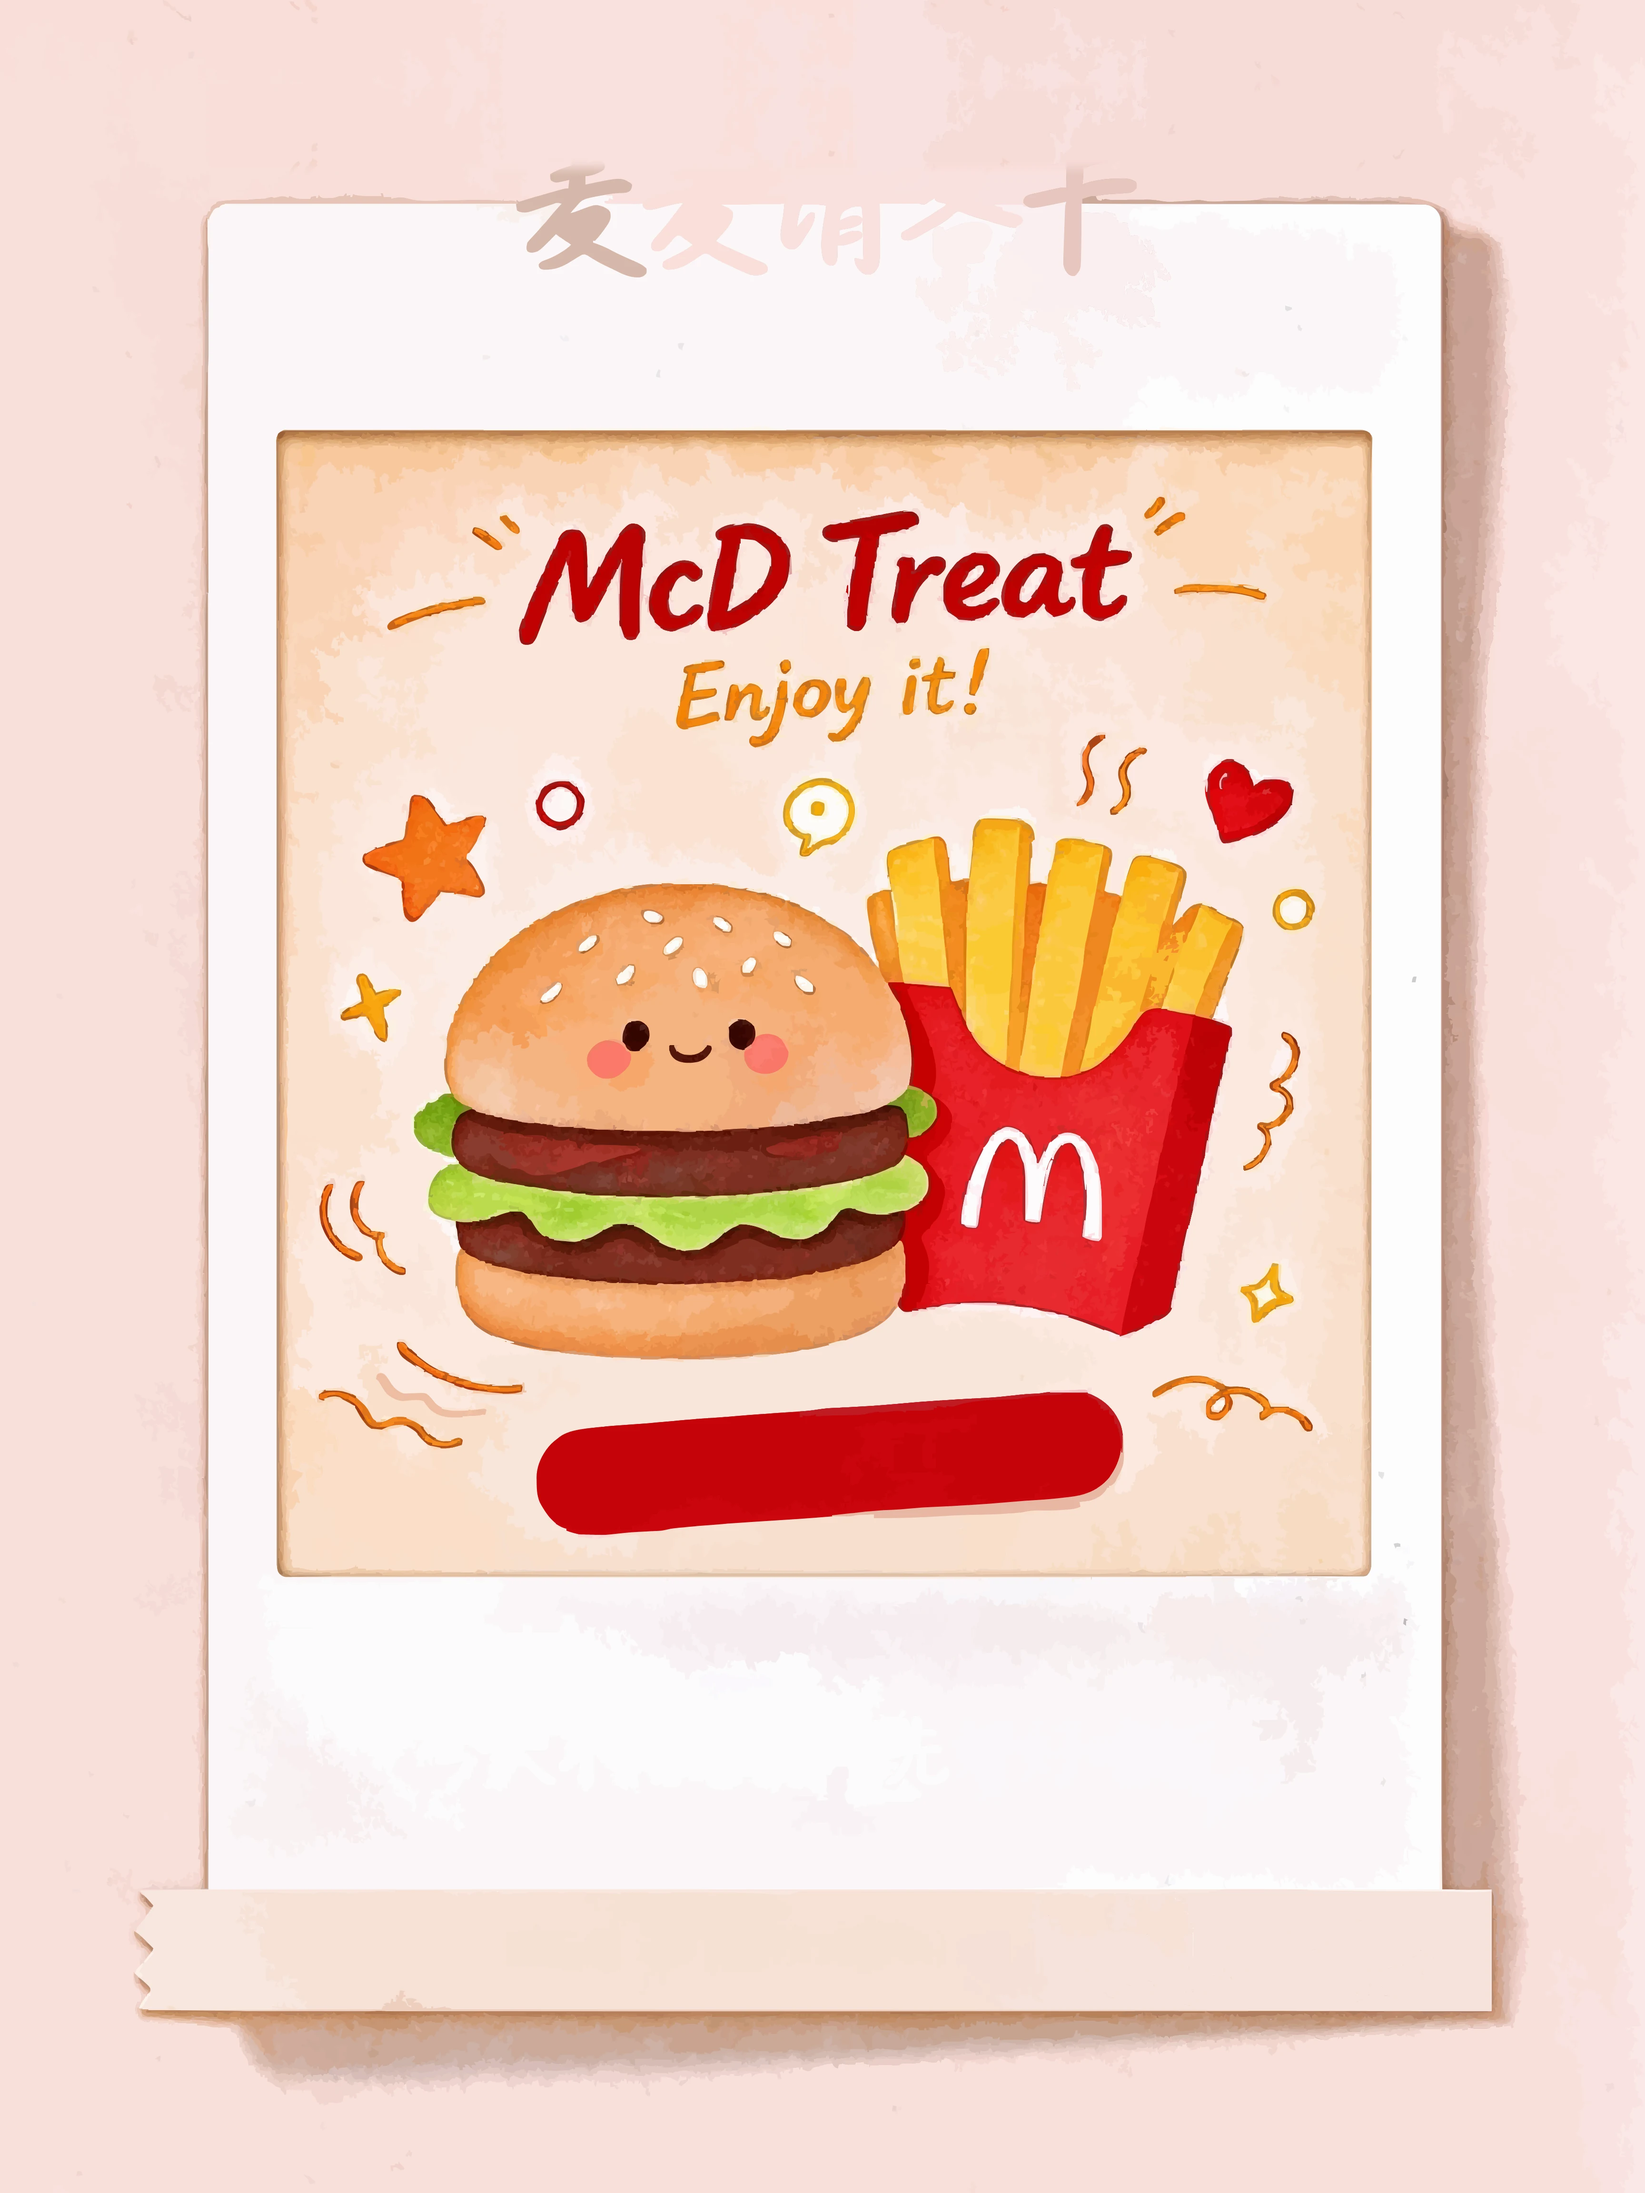
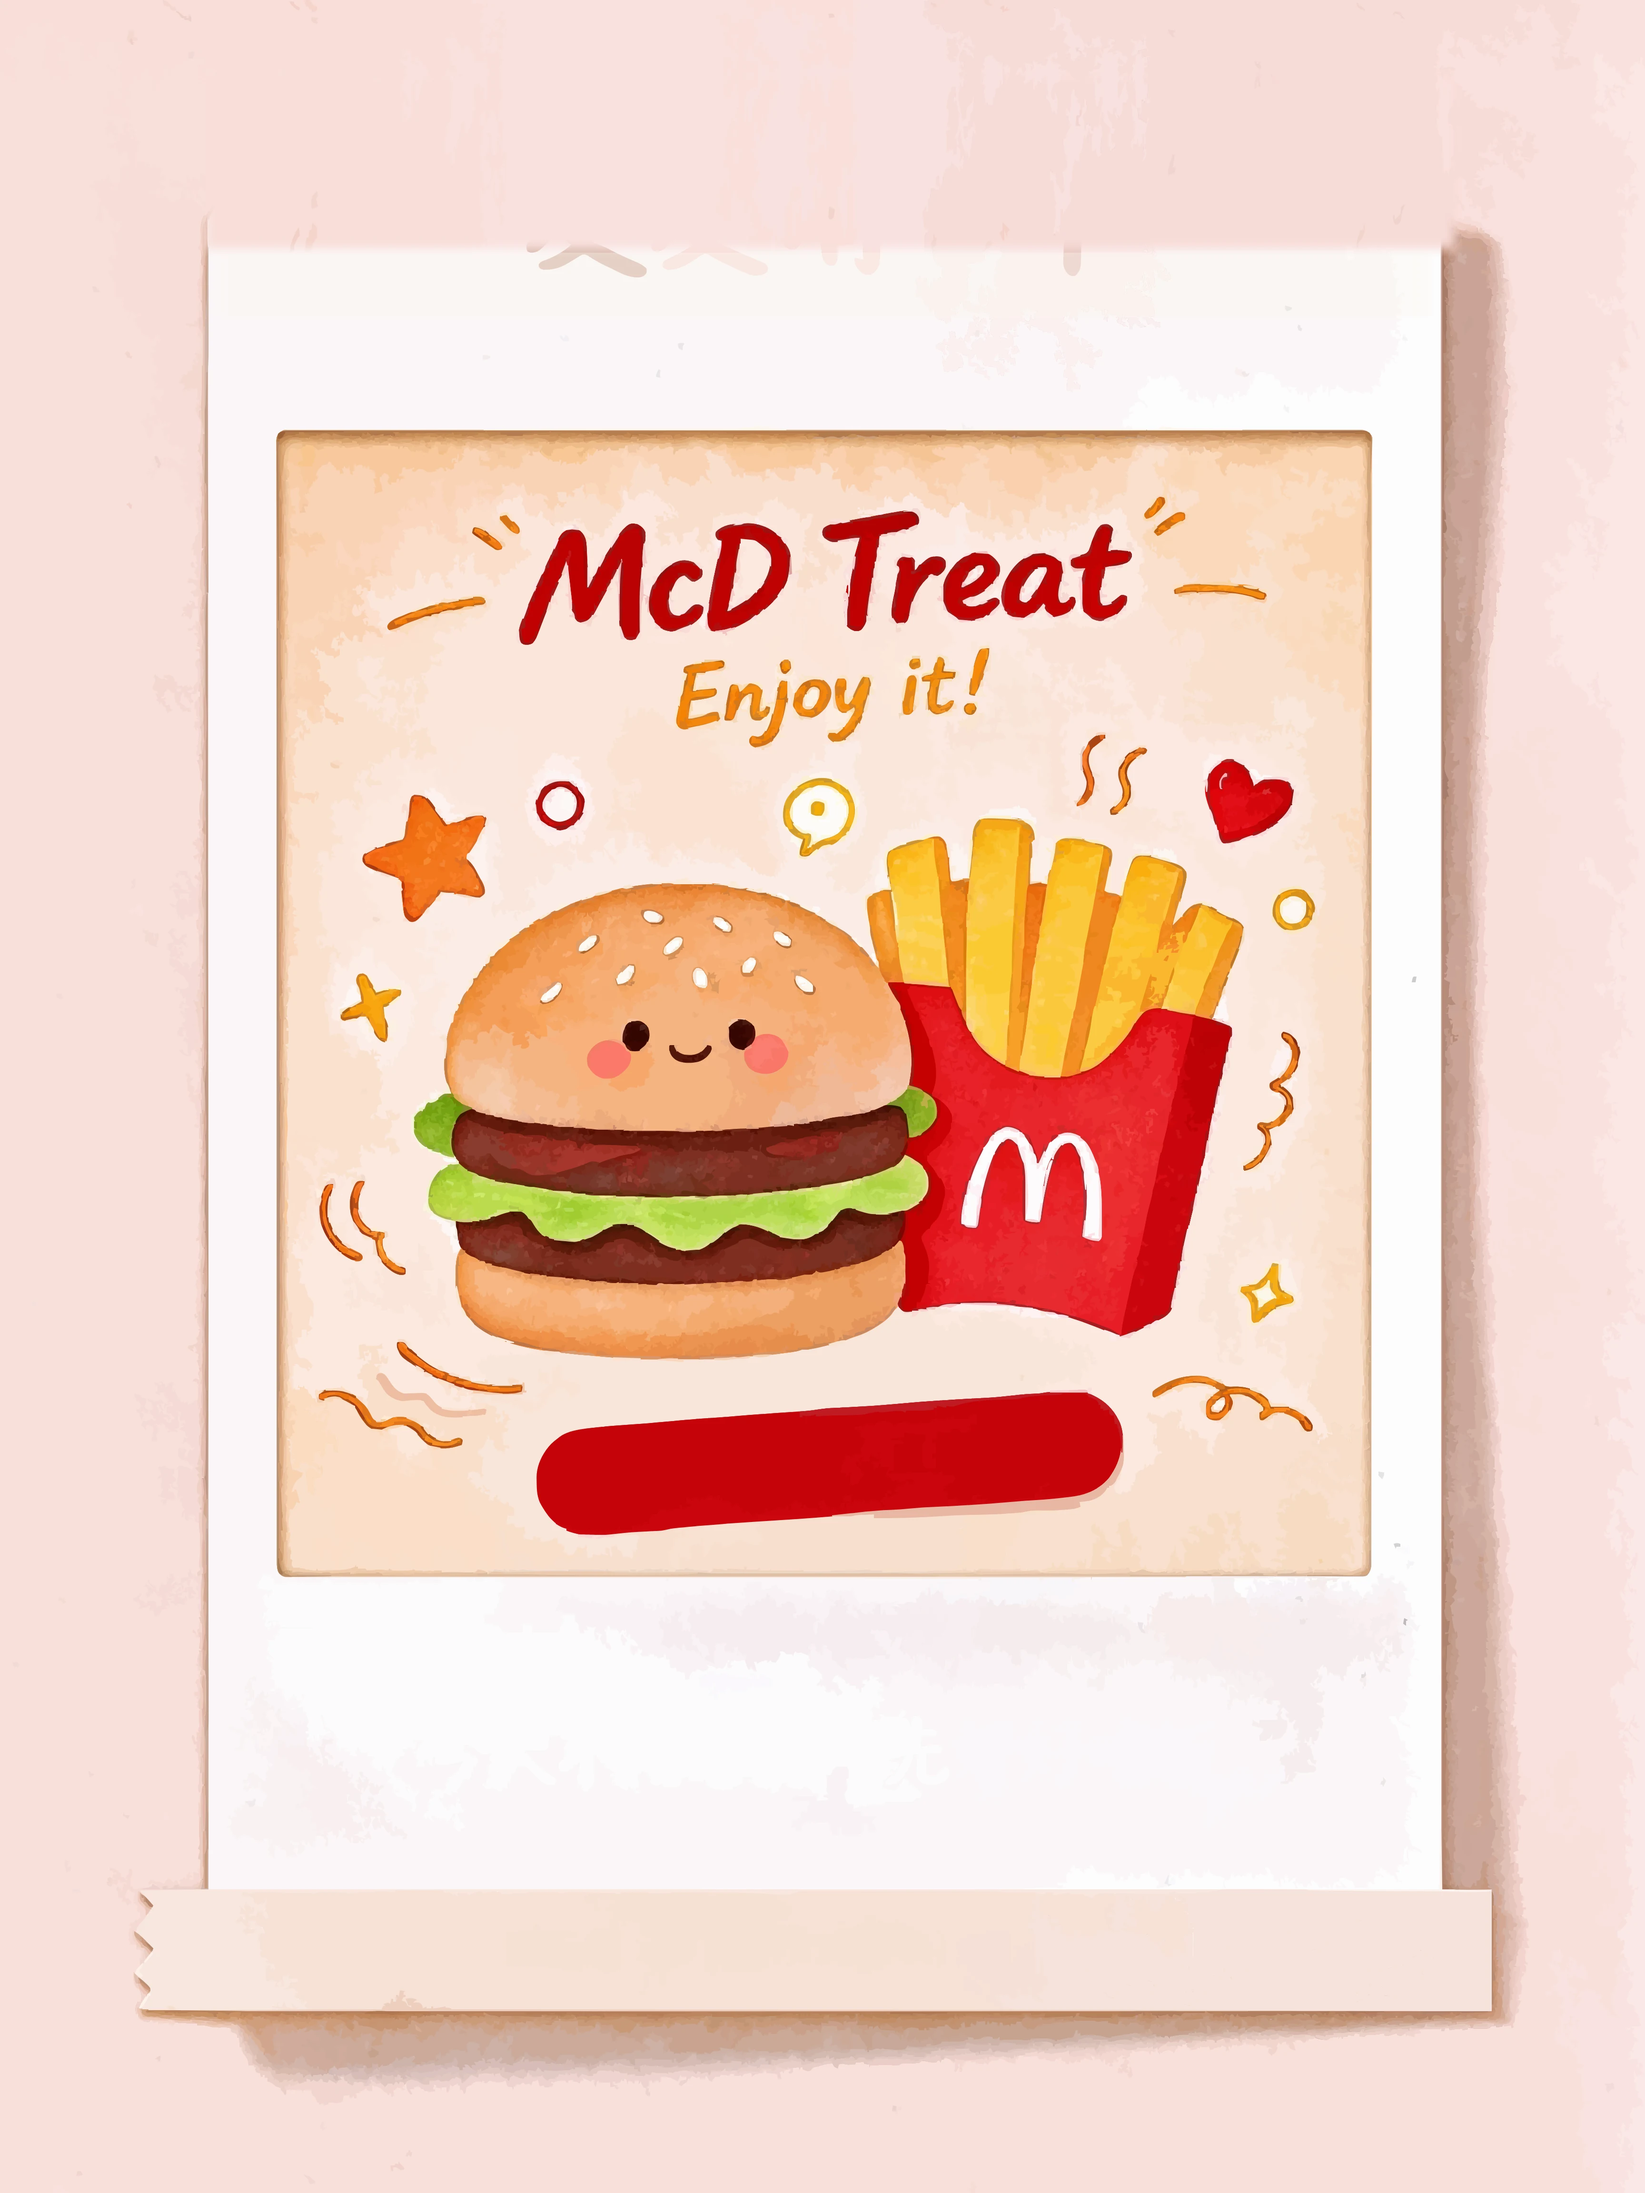
标题托板下移 3/4 标题高度（top 112->220），底图残影修补范围扩大并融合白框顶缘

Changed region(s): [[0.5625, 0.0625, 0.9062, 0.125], [0.125, 0.0625, 0.4062, 0.125], [0.4375, 0.0938, 0.5, 0.125]]

diff --git a/templates/card.html b/templates/card.html
@@ -42,7 +42,7 @@
   /* —— 标题托板：标题从底图分离后下移，白色圆角底 —— */
   .title-plate {
     position: absolute;
-    left: 50%; top: 112px;
+    left: 50%; top: 220px;
     transform: translateX(-50%);
     background: #FFFDF8;
     border-radius: 30px;

diff --git a/scripts/_make_bg_asset.py b/scripts/_make_bg_asset.py
@@ -33,12 +33,13 @@ print("png size:", img.size)
 
 # —— 修补标题幽灵残留 ——
 # 标题浅色阴影与背景水彩斑合并在同一大 path 里无法按路径抠除；
-# 托板(HTML)盖住 card y112 以下，这里把托板上沿以上露出的
-# 残影条带(card y50-115 -> 2x y160-368)用上方干净带(card y0-50)翻转拉伸后羽化贴回。
+# 托板(HTML)已下移到 card y220，残影在托板以上整段露出，
+# 这里把 card y45-168（拍立得白框顶边之前）用上方干净带(card y0-45)
+# 翻转拉伸后羽化贴回。
 W, H = img.size  # 3456x4608
 px_x0, px_x1 = 416, 3072          # card x130-960
-dst_y0, dst_y1 = 160, 368         # card y50-115
-src = img.crop((px_x0, 0, px_x1, 152)).transpose(Image.FLIP_TOP_BOTTOM)
+dst_y0, dst_y1 = 144, 538         # card y45-168
+src = img.crop((px_x0, 0, px_x1, 144)).transpose(Image.FLIP_TOP_BOTTOM)
 src = src.resize((px_x1 - px_x0, dst_y1 - dst_y0), Image.LANCZOS)
 mask = Image.new("L", src.size, 0)
 from PIL import ImageDraw
@@ -48,6 +49,19 @@ d.rectangle((16, 16, src.size[0] - 16, src.size[1] - 16), fill=255)
 mask = mask.filter(ImageFilter.GaussianBlur(10))
 img.paste(src, (px_x0, dst_y0), mask)
 print("ghost patched")
+
+# —— 白框顶部残迹提白：残影下缘延伸进拍立得白框(card y166-208)，向白框底色融合 ——
+wx0, wx1 = 440, 3020               # card x137-944
+wy0, wy1 = 531, 666                # card y166-208
+region = img.crop((wx0, wy0, wx1, wy1))
+white = Image.new("RGB", region.size, (251, 246, 239))
+whitened = Image.blend(region, white, 0.62)
+wmask = Image.new("L", region.size, 0)
+d2 = ImageDraw.Draw(wmask)
+d2.rectangle((20, 0, region.size[0] - 20, region.size[1]), fill=160)
+wmask = wmask.filter(ImageFilter.GaussianBlur(12))
+img.paste(whitened, (wx0, wy0), wmask)
+print("polaroid top whitened")
 
 out = ASSET_DIR / "card_bg.webp"
 img.save(out, "WEBP", quality=88, method=6)
